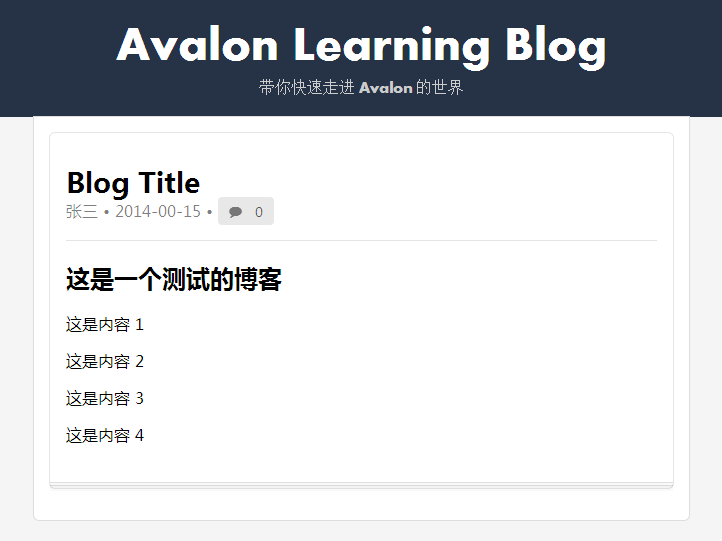
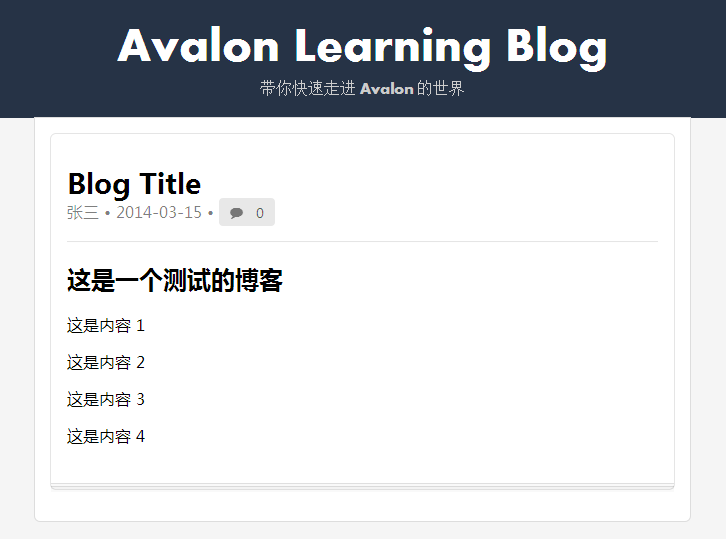
Fix date filter bug

diff --git a/demos/ajax_basic.html b/demos/ajax_basic.html
@@ -23,7 +23,7 @@
         <h2 class="ui header">
             <div class="content">
                 {{blog.subject}}
-                <div class="sub header">{{blog.author}} • {{blog.publish_date|date('yyyy-mm-dd')}} • <span class="ui label"><i class="comment icon"></i> {{blog.comment_count}}</span></div>
+                <div class="sub header">{{blog.author}} • {{blog.publish_date|date('yyyy-MM-dd')}} • <span class="ui label"><i class="comment icon"></i> {{blog.comment_count}}</span></div>
             </div>
         </h2>
         <div class="ui divider"></div>

diff --git a/demos/filter.html b/demos/filter.html
@@ -23,7 +23,7 @@
         <h2 class="ui header">
             <div class="content">
                 {{blog.subject}}
-                <div class="sub header">{{blog.author}} • {{blog.publish_date|date('yyyy-mm-dd')}} • <span class="ui label"><i class="comment icon"></i> {{blog.comment_count}}</span></div>
+                <div class="sub header">{{blog.author}} • {{blog.publish_date|date('yyyy-MM-dd')}} • <span class="ui label"><i class="comment icon"></i> {{blog.comment_count}}</span></div>
             </div>
         </h2>
         <div class="ui divider"></div>

diff --git a/zh_CN/filter.md b/zh_CN/filter.md
@@ -22,7 +22,13 @@ filter 可以用在插值表达式之后（还记得插值表达式吗？就是 
 这里面对我们有用的是两个: `date` 和 `html`
 
 其中 `date` 可以将一个日期字段转換为各种格式，所以我们可以将 `{{publish_date}}`
-改为 `{{publish_date|date('yyyy-mm-dd')}}` 。
+改为 `{{publish_date|date('yyyy-MM-dd')}}` 。
+
+{% alert class=info %}
+这里月是使用 `MM` ，而 `mm` 表示分钟。对于日期的取值 Avalon 很灵活，可以支持很多
+种情况，如： Date 对象， '2014/03/15' 等多种字符串格式。详细参见关于 [filter][1]
+文档中关于 date 的描述。
+{% endalert %}
 
 `html` 则可以将文本不进行转义处理。缺省情况下，插件表达式的结果会自动进行转义。
 所以我们将 `{{content}}` 改为 `{{content|html}}` 。修改后再查看页面，结果为：
